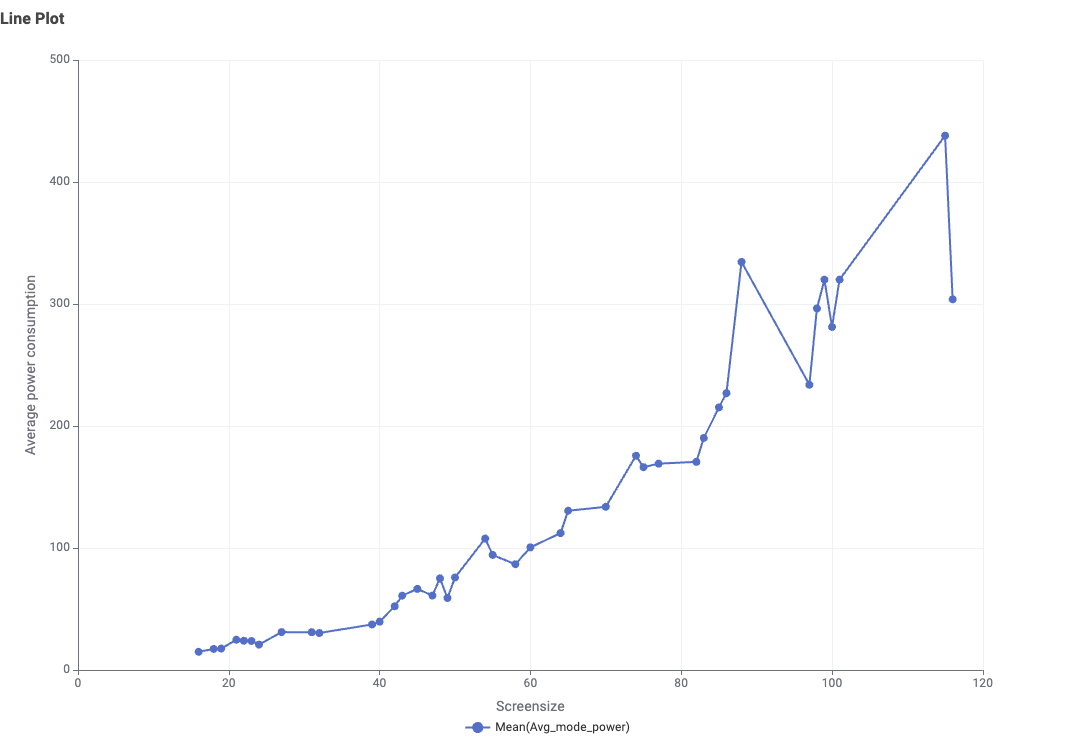
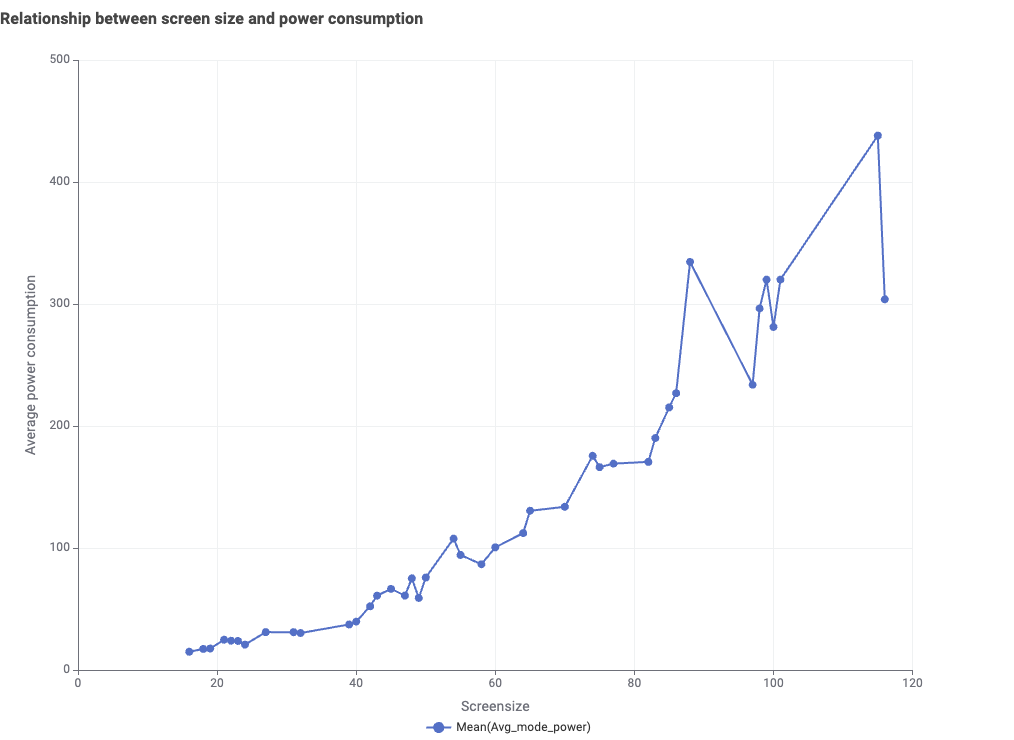
cont. tv content, edit graph images

diff --git a/Exercise 3/energy-webpage-v1/js/scripts.js b/Exercise 3/energy-webpage-v1/js/scripts.js
@@ -12,7 +12,7 @@ const content_home = `
 
     <h2>Appliance Energy Consumption in Australia</h2>
     <p>Household appliances and equipment account for an average of 25% of total residential energy consumption across Australia. However, this proportion will vary by household depending on the climate, the types of appliances in your home, and the way they are used. Heating and cooling uses around 40% of household energy use.
-    <br>
+    <br><br>
     Appliances that use the largest amounts of energy include fridges and freezers (responsible for an average 7% of household energy use), clothes dryers (up to 10% of household energy use for heavy users), and TVs and home entertainment equipment (an average of around 5% of household energy use). In homes with a pool, the pool pump is a high user of energy (up to 18%).
     <br>
     Household appliances contribute to peak electricity demand, which refers to major spikes in electricity use that occurs at certain times (for example, between 5pm and 8pm when people arrive home from work and turn on their air-conditioners, TVs, lights, and other appliances). If peak demand exceeds the maximum supply levels, some regions can experience electricity outages. Supplying electricity for an ever-increasing peak demand requires building more electricity infrastructure, which is paid for by increases in energy prices.
@@ -25,11 +25,11 @@ const content_tv = `
     <p>Depending on level of usage, TV may be a take up a portion of energy bills. However, that does not mean that we should stop watching TVs, but rather we should purchase energy efficient TVs so that we are able to continue watching TVs without putting a dent on our budget. There are several factors that influences the energy consumption of TVs, including screen technology and screen size.</p>
 
     <h2>Screen technology</h2>
-    <p>There are different screen technologies for TV, each with their own advantages and disadvantages in terms color accuracy and contrast, viewing angles, design etc. They also differ in terms of power consumption. So one of the most pressing question on a cost-conscious consumer's mind is: Which screen technology consumes the least energy to ensure low energy bills?</p>
-
-    <p>Online research would reveal that amongst the 3 most popular technologies, LCD, LED and OLED, OLED consumes the most energy while LED consumes the least energy. LCD is in the middle in terms of energy consumption. However, to get a definitive answer, it is better to investigate actual TV models in the market and compare the energy use. We can use the energy rating data for household appliances provided by the Australian government for our research, and the data for TV is available at: <a href="https://data.gov.au/data/dataset/energy-rating-for-household-appliances/resource/93a615e5-935e-4713-a4b0-379e3f6dedc9">https://data.gov.au/data/dataset/energy-rating-for-household-appliances/resource/93a615e5-935e-4713-a4b0-379e3f6dedc9</a></p>
-
-    <p>The dataset contains many information and columns, but to find average enery consumption for each screen technology, we will only require two data: screen technology and power consumption. However, in this dataset, there are 3 types of power consumption listed:</p>
+    <p>There are different screen technologies for TV, each with their own advantages and disadvantages in terms color accuracy and contrast, viewing angles, design etc. They also differ in terms of power consumption. So one of the most pressing question on a cost-conscious consumer's mind is: Which screen technology consumes the least energy to ensure low energy bills?
+    <br><br>
+    Online research would reveal that amongst the 3 most popular technologies, LCD, LED and OLED, OLED consumes the most energy while LED consumes the least energy. LCD is in the middle in terms of energy consumption. However, to get a definitive answer, it is better to investigate actual TV models in the market and compare the energy use. We can use the energy rating data for household appliances provided by the Australian government for our research, and the data for TV is available at: <a href="https://data.gov.au/data/dataset/energy-rating-for-household-appliances/resource/93a615e5-935e-4713-a4b0-379e3f6dedc9">https://data.gov.au/data/dataset/energy-rating-for-household-appliances/resource/93a615e5-935e-4713-a4b0-379e3f6dedc9</a>
+    <br><br>
+    The dataset contains many information and columns, but to find average enery consumption for each screen technology, we will only require two data: screen technology and power consumption. In this dataset, there is only one screen technology column listing whether the TV model uses LCD, LCD(LED) or OLED. However, there are 3 seperate columns for power consumption:</p>
 
     <ul>
         <li>Pasv_stnd_power: the amount of energy used by the appliance in passive standby power mode</li>
@@ -41,14 +41,45 @@ const content_tv = `
 
     <img src="images/datagraph_tech.png" alt="Bar chart showing the mean of energy use when the tv is in use for each screen technology.">   
 
-    <p>The results are rather surprising. As we can see from the bar chart above, instead of LCD consuming the least energy as we stated in the hypothesis, the screen technology with lowest energy consumption is actually LED on the left, with the mean value of 86.04, followed by LCD in the middle with mean value of 120.11, and finally OLED on the right with mean value of 128.71. There is a difference of around 35 between LED and LCD, while only a small difference of around 8 between LCD and OLED. This shows that LED consumes significantly less energy than the two other types screen technology. </p>
-
-    <p>The following image shows the storyboard of how this data is presented to user: </p>
+    <p>The x-axis or colored bars represent different screen technologies, while the y-axis or height of the bars show the mean value of avg_mode_power for the specific type of screen technology.The results are rather surprising. As we can see from the bar chart above, instead of LCD consuming the least energy as we stated in the hypothesis, the screen technology with lowest energy consumption is actually LED (the left bar in blue), with the mean value of 86.04, followed by LCD (the middle bar in green) with mean value of 120.11, and finally OLED (the right bar in yellow) with mean value of 128.71. There is a difference of around 35 between LED and LCD, while only a small difference of around 8 between LCD and OLED. This shows that LED consumes significantly less energy than the two other types screen technology.
+    <br><br>
+    The following image shows the storyboard of how this data is presented to user: </p>
 
     <img src="images/storyboard_tech.png" alt="Storyboard of how relationship between screen technology and power consumption is presented to viewers">
 
-
     <h2>Screen Size</h2>
+    <p>Besides screen technology, another important consideration for consumers when selecting TV is the screen size. Generally speaking, bigger screen size will result in a better viewing experience, subject to the length and width of the room the TV will be placed in. However, as mentioned above, screen size is also one of the factors influencing energy consumption. So one question consumers will ask is: Will bigger screen size result in higher energy bills?
+    <br><br>
+    Logically speaking, bigger screen size should have higher power consumption, as there is a larger surface area that needs to emit light, so more electrical energy is required to transform into light energy. Again, this is just a hypothesis based on logic, so to get a definitive answer, it is better to investigate actual TV models in the market and compare the energy use. Again, we can use the same energy rating data for household appliances provided by the Australian government used in the section above for our research.
+    <br><br>
+    To find average energy consumption for each screen size, we will only require two data: screen size and power consumption. Similar to section above, we will be using avg_mode_power, which is the amount of energy used by the appliance when the television is in use, since how much power the TV consumes when it is switched on and actively in use is a more realistic indicator of energy use for an average consumer. For screen size however, for the majority of the models we used the screen size advertised in the model name. For some models where we were unable to extract screens size from the model name, or if there is a difference larger than 5 inch between the extracted screen size from the model name and actual screen size, we used the actual screen size round up to the nearest integer is its screen size.
+    <br><br>    
+    We will get the mean value of avg_mode_power for each screen size, and plot the results in a line graph. A line graph is used because it can easily show the increase or decrease in avg_mode_power as the screen size increases. The results are as follows:</p>
+
+    <img src="images/datagraph_size.png" alt="Line graph showing the mean of energy use for each screen size.">   
+
+    <p>The x-axis represent the different screen sizes in increasing order, and each dot plotted on the graph is a screen size we extracted from the data. The y-axis or the height of the dot show the mean value of avg_mode_power for the specific screen size. As we can see from the line above, while it is not a clear straight like, there is a general upwards trend showing that there is indeed an increase in average power use as the screen size increases.
+    <br><br>
+    The following image shows the storyboard of how this data is presented to user: </p>
+
+    <img src="images/storyboard_size.png" alt="Storyboard of how relationship between screen size and power consumption is presented to viewers">
+
+    <h2>Star Rating</h2>
+    <p>From the sections above, we can see that selecting LCD TV with small screen sizes are most likely to result in the lowest power consumption. However, there are many TV models in the market, with overlapping screen technologies and screen sizes. So consumers will likely to be confused and ask: If presented a choice between different models with the same screen technology and screen size, which model should I choose? 
+    <br><br>
+    Research indicates that we can use star rating levels to determine the energy efficiency of electrical appliances. The more stars an appliance has, the more energy efficient it is. We can investigate actual TV models in the market and compare the energy use for different star rating to determine if this is true. Again, we can use the same energy rating data for household appliances provided by the Australian government used in the section above for our research.
+    <br><br>
+    To find average energy consumption for each star rating, we will only require two data: star rating and power consumption. Similar to section above, we will be using avg_mode_power, which is the amount of energy used by the appliance when the television is in use, since how much power the TV consumes when it is switched on and actively in use is a more realistic indicator of energy use for an average consumer. For star rating, we will be using the data from column Star2, which lists the actual star rating of the television. 
+    <br><br>    
+    We will get the mean value of avg_mode_power for each star rating, and plot the results in a line graph. A line graph is used because it can easily show the increase or decrease in avg_mode_power as the star rating increases. The results are as follows:</p>
+
+    <img src="images/datagraph_star.png" alt="Line graph showing the mean of energy use for each star rating.">   
+
+    <p>The x-axis represent the different star ratings levels in increasing order, and each dot plotted on the graph is a star rating level. The y-axis or the height of the dot show the mean value of avg_mode_power for the specific star rating level. As we can see from the line above, while it is not a clear straight like, there is a general downwards trend showing that there is indeed an decrease in average power use as the star rating increases.
+    <br><br>
+    The following image shows the storyboard of how this data is presented to user: </p>
+
+    <img src="images/storyboard_star.png" alt="Storyboard of how relationship between star rating and power consumption is presented to viewers" width="93%" height="93%">
 
 
 `;
